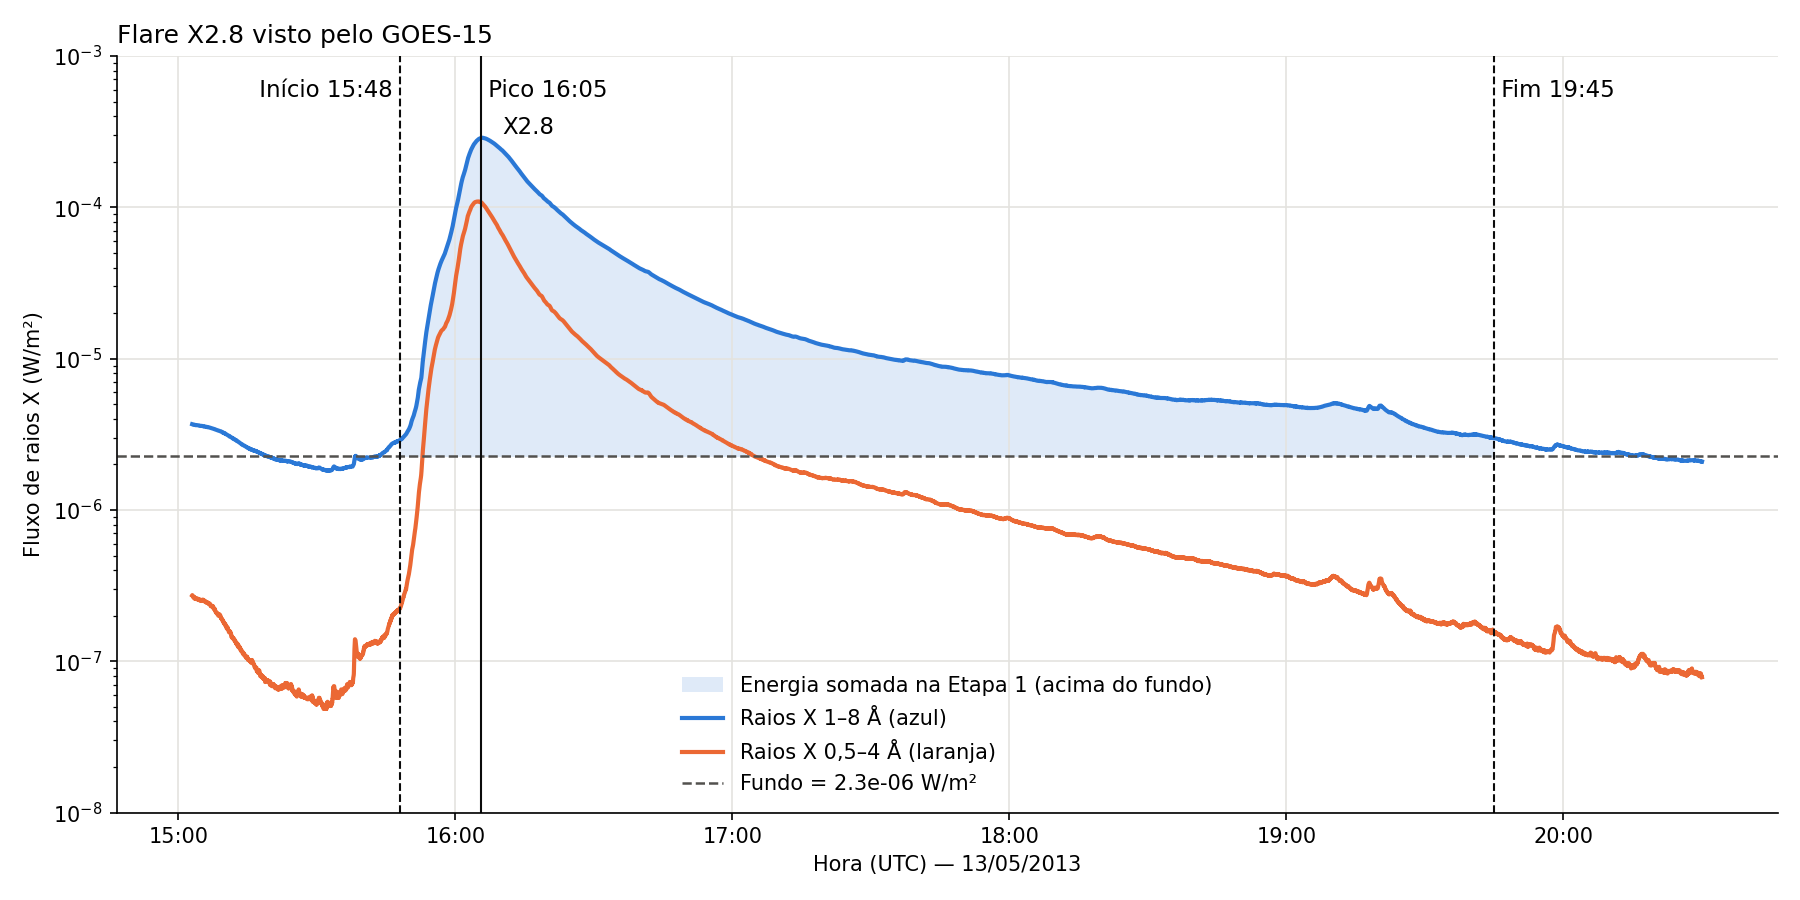
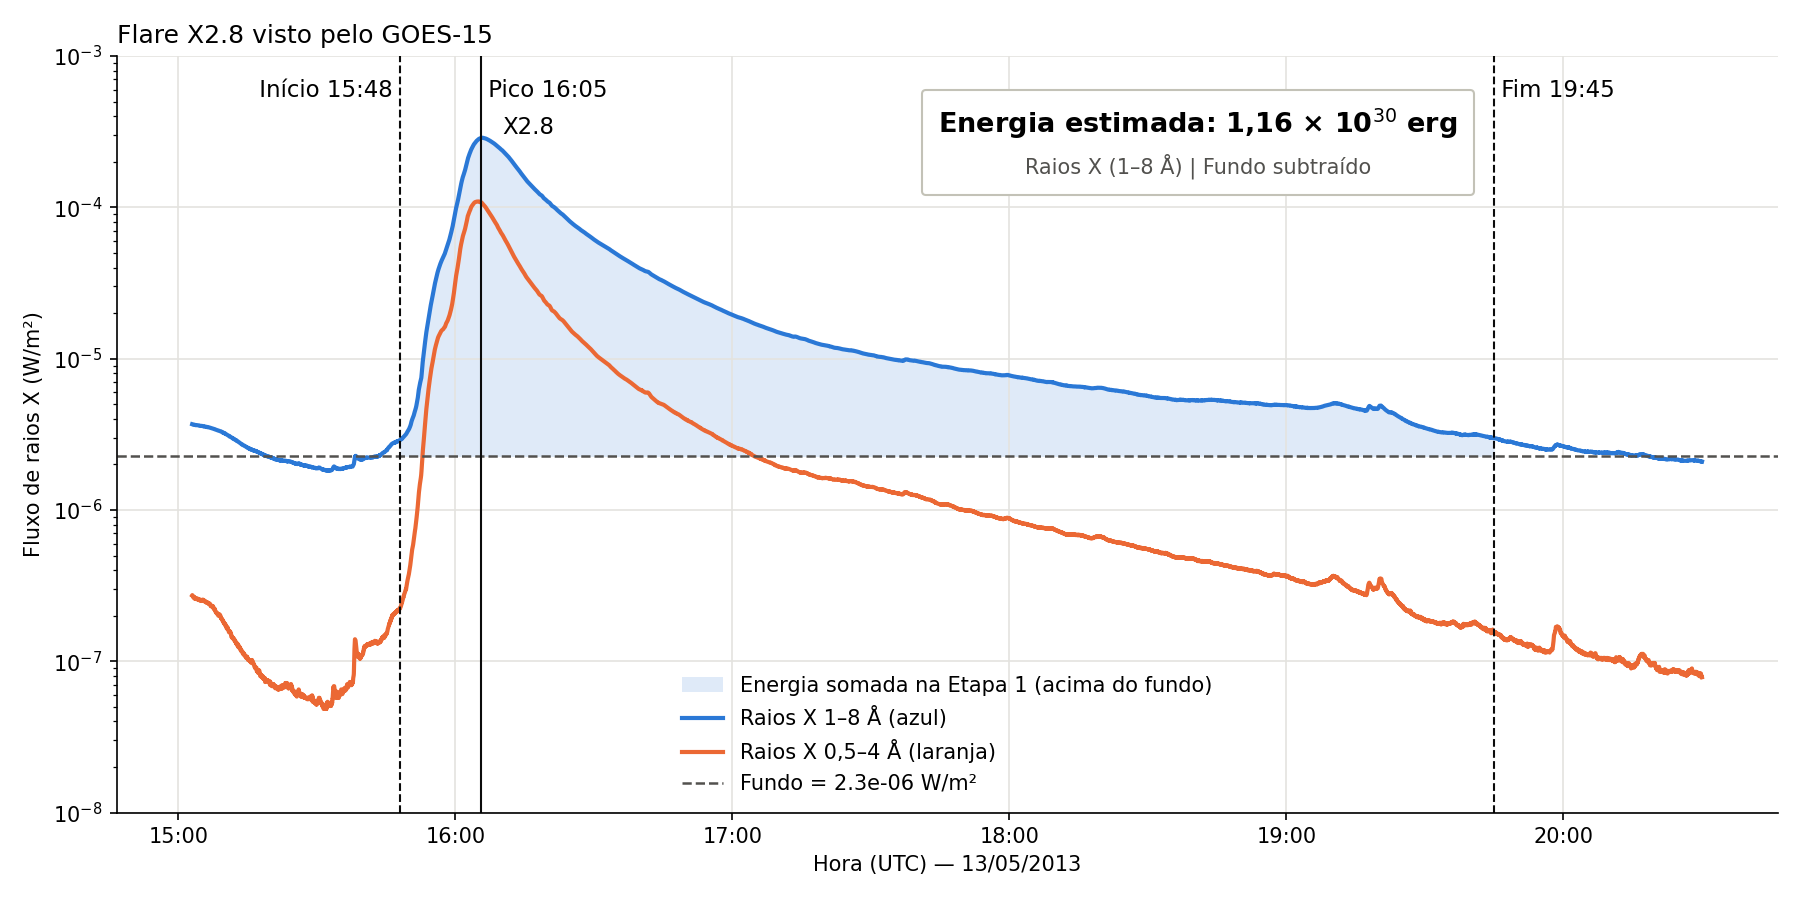
Adiciona caixa com a energia estimada no gráfico do flare

Changed region(s): [[0.4978, 0.0933, 0.8089, 0.2178]]

diff --git a/analise_goes.py b/analise_goes.py
@@ -22,6 +22,7 @@ import matplotlib
 matplotlib.use("Agg")  # só salva o PNG, sem abrir janela
 import matplotlib.pyplot as plt
 import matplotlib.dates as mdates
+from matplotlib.offsetbox import AnchoredOffsetbox, TextArea, VPacker
 from astropy.io import fits
 
 PASTA = Path(__file__).parent
@@ -216,6 +217,20 @@ ax.set_title("Flare X2.8 visto pelo GOES-15", loc="left")
 ax.grid(color="#e4e3df")
 ax.spines[["top", "right"]].set_visible(False)
 ax.legend(loc="lower center", frameon=False)
+
+# Caixa com o resultado final, na área livre acima da cauda do flare
+# (entre o pico e a linha do fim). O valor vem do cálculo da Etapa 3.
+mantissa, expoente = f"{energia_total_erg:.2e}".split("e")
+linha_1 = TextArea(f"Energia estimada: {mantissa.replace('.', ',')} × 10$^{{{int(expoente)}}}$ erg",
+                   textprops=dict(fontsize=13, fontweight="bold"))
+linha_2 = TextArea("Raios X (1–8 Å) | Fundo subtraído", textprops=dict(fontsize=10, color="#52514e"))
+caixa = AnchoredOffsetbox(loc="upper right", bbox_to_anchor=(0.815, 0.95), bbox_transform=ax.transAxes,
+                          child=VPacker(children=[linha_1, linha_2], align="center", pad=0, sep=6),
+                          pad=0.6, frameon=True, borderpad=0)
+caixa.patch.set_boxstyle("round,pad=0.2")
+caixa.patch.set_facecolor("white")
+caixa.patch.set_edgecolor("#c3c2b7")
+ax.add_artist(caixa)
 fig.tight_layout()
 fig.savefig(PASTA_RESULTADOS / "goes_flare_x28.png", dpi=150)
 
